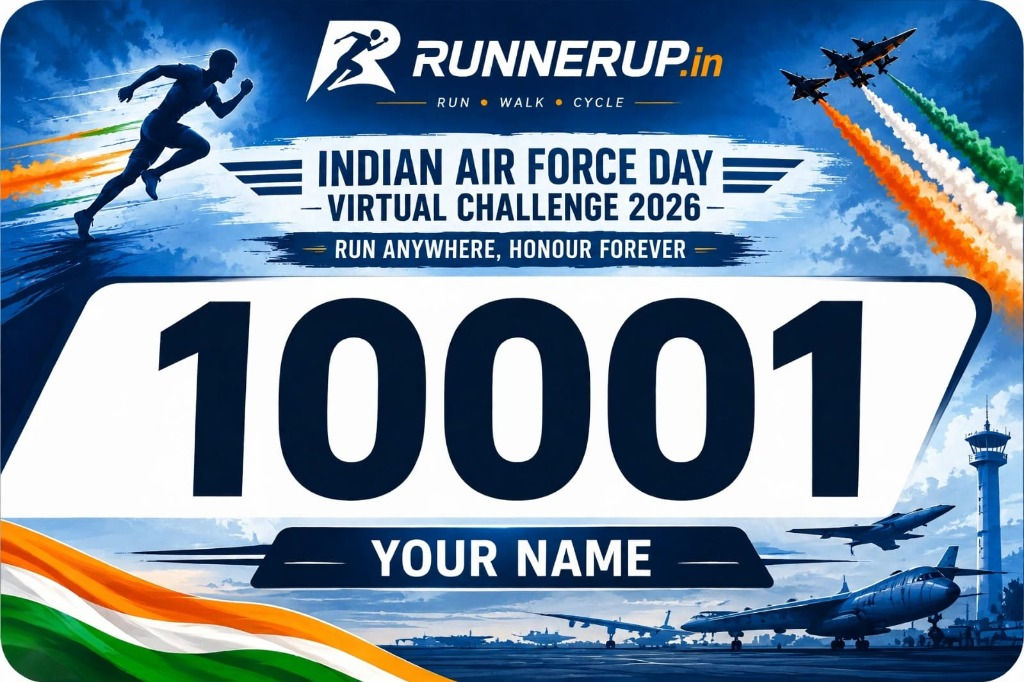
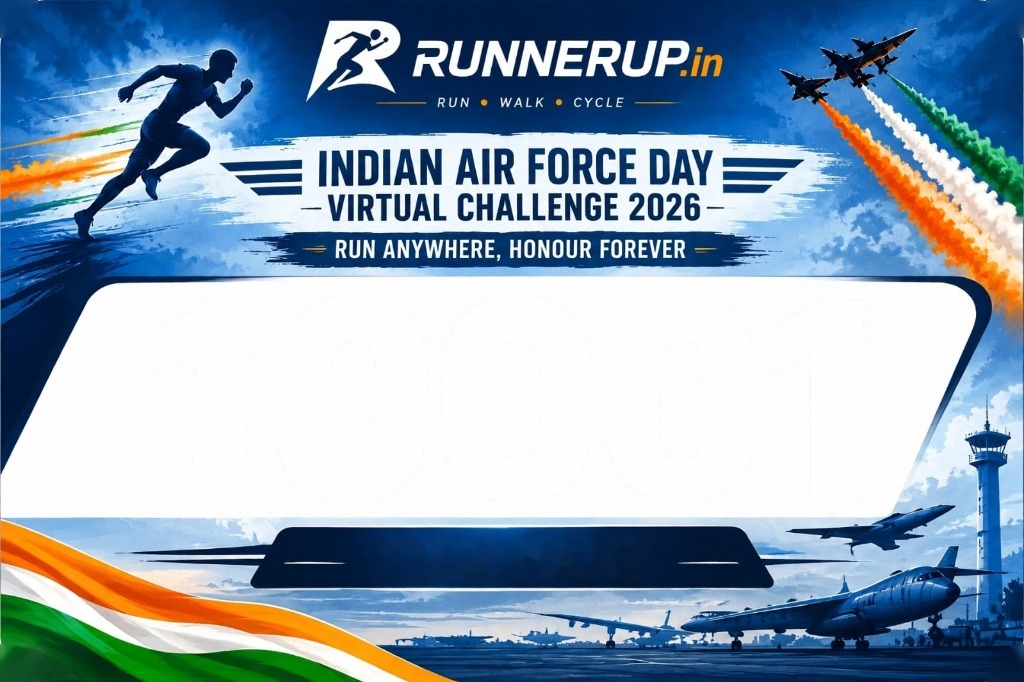
fix(assets): restore authentic bib plate boundaries, eliminate signature background streaks, and enforce cache-busted canvas rendering

diff --git a/frontend/src/lib/asset-canvas.ts b/frontend/src/lib/asset-canvas.ts
@@ -67,7 +67,7 @@ function loadImage(src: string): Promise<HTMLImageElement> {
 export async function renderBibCanvas(data: BibRenderData): Promise<HTMLCanvasElement> {
   await ensureCanvasFonts();
 
-  const baseImg = await loadImage("/iaf-bib-clean-base.jpg");
+  const baseImg = await loadImage("/iaf-bib-clean-base.jpg?v=20261031_v3");
   const canvas = document.createElement("canvas");
   canvas.width = 1024;
   canvas.height = 682;
@@ -86,8 +86,8 @@ export async function renderBibCanvas(data: BibRenderData): Promise<HTMLCanvasEl
   ctx.fillStyle = "#874f41";
   ctx.fillText(distStr, 512, 318);
 
-  // 2. Big Rank Position (e.g. "0002", "0010")
-  const posStr = data.positionStr || "0001";
+  // 2. Big Rank Position / Bib Number (e.g. "1242", "1001")
+  const posStr = data.positionStr || "1001";
   ctx.font = `900 170px "OfficialArialBlack", "Arial Black", "Impact", "Arial", sans-serif`;
   ctx.textAlign = "center";
   ctx.textBaseline = "middle";
@@ -104,7 +104,7 @@ export async function renderBibCanvas(data: BibRenderData): Promise<HTMLCanvasEl
   ctx.textAlign = "center";
   ctx.textBaseline = "middle";
   ctx.fillStyle = "#ffffff";
-  ctx.fillText(`— ${nameClean} —`, 512, 563);
+  ctx.fillText(`— ${nameClean} —`, 512, 560);
 
   return canvas;
 }
@@ -115,7 +115,7 @@ export async function renderBibCanvas(data: BibRenderData): Promise<HTMLCanvasEl
 export async function renderCertCanvas(data: CertRenderData): Promise<HTMLCanvasElement> {
   await ensureCanvasFonts();
 
-  const baseImg = await loadImage("/iaf-cert-clean-base.jpg");
+  const baseImg = await loadImage("/iaf-cert-clean-base.jpg?v=20261031_v3");
   const canvas = document.createElement("canvas");
   canvas.width = 1024;
   canvas.height = 682;
